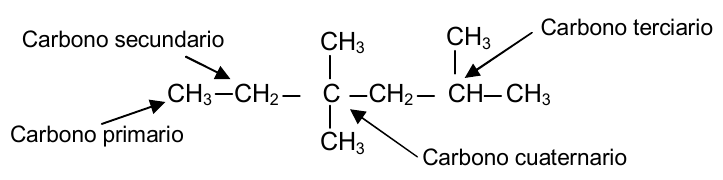
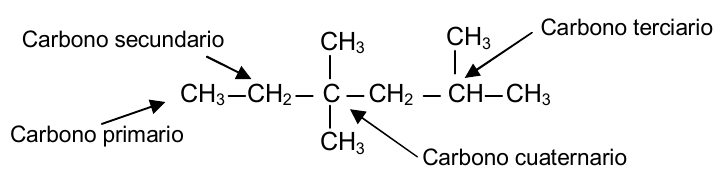
1

Changed region(s): [[0.213, 0.3056, 0.4564, 0.5833], [0.5781, 0.5278, 0.6086, 0.5556]]

diff --git a/docs/tema2-carbono.md b/docs/tema2-carbono.md
@@ -67,7 +67,7 @@ Los hidrocarburos aromáticos son los derivados del benceno ($\ce{C6H6}$), cuya 
 
 ![...](imagenes/tema02/aromaticos.png){ style="display: block; margin: 0 auto; width: 80%; height: auto;" }
 
-### **3.1 Hidrocarburos saturados lineales. Alcanos -ano** {: .caja-subtitulo}
+### **3.1 Hidrocarburos saturados lineales. Alcanos (-ano)** {: .caja-subtitulo}
 
 Los hidrocarburos saturados de cadena lineal tienen de fórmula general $\ce{C_nH_{2n+2}}$. Sólo contienen enlaces simples C-C. Pueden ser de cadena lineal o presentar ramificaciones laterales.
 
@@ -81,7 +81,7 @@ En una cadena carbonada podemos identificar:
   
 - **cuaternarios** cuando sus cuatro enlaces son uniones C-C.
 
-![...](imagenes/tema02/tipos_carbonos.png){ style="display: block; margin: 0 auto; width: 80%; height: auto;" }
+![...](imagenes/tema02/tipos_carbonos.png){ style="display: block; margin: 0 auto; width: 70%; height: auto;" }
 
 ### **Nomenclatura** {: .caja-subtitulo2}
 
@@ -126,44 +126,53 @@ Para **nombrar** **hidrocarburos saturados ramificados** se aplican los criterio
    
       - La más larga
       - La que tenga mayor número de sustituciones
-      - La que tenga los localizadores (suma) más bajos.
 
 2. **Numerar la cadena principal** de tal forma que los localizadores (suma) sean los más bajos posibles.
 
-3. **Nombrar los sustituyentes por orden alfabético**. A la hora de clasificar alfabéticamente no se consideran los prefijos numerales (di, tri...) de los sustituyentes simples.
+3. **Nombrar los sustituyentes por orden alfabético** con:
+    1. Un número llamado localizador que indica la posición en la cadena.
+   
+    2. Un prefijo en función del número de carbonos. Si hay más de uno, se añade un prefijo numérico: di-, tri-, tetra-... A la hora de clasificar alfabéticamente no se consideran los prefijos numerales (di, tri...) de los sustituyentes simples.
+   
+    3. Se finalizan en -**il**.
+   
+    4. Los números se separan entre sí con comas y de las letras con un guion. 
 
-4. **Nombrar la cadena principal**.
+4. **Nombrar la cadena principal** con el prefijo adecuado terminado en -**ano**.
 
-!!! note "Localizadores"
-Los **localizadores** son números que se asignan a los átomos de carbono de la cadena principal. Sirven para indicar la posición de las sustituciones (ramificaciones).
+> Los **localizadores** son números que se asignan a los átomos de carbono de la cadena principal. Sirven para indicar la posición de las sustituciones (ramificaciones).
 
 ![...](imagenes/tema02/ejemplo1.png){ style="display: block; margin: 0 auto; width: 100%; height: auto;" }
 
 ### **Hidrocarburos saturados cíclicos** (**cicloalcanos**) {: .caja-subtitulo}
-En este tipo de hidrocarburos los átomos de carbono se encuentran unidos formando anillos.
+En este tipo de hidrocarburos los átomos de carbono se encuentran unidos **formando anillos**.
 
 ### **Nomenclatura** {: .caja-subtitulo2}
 
-- Los cicloalcanos se nombran anteponiendo el nombre de los sustituyentes (en orden alfabético) al del hidrocarburo correspondiente con la palabra ciclo antepuesta.
+- Los **cicloalcanos** se nombran anteponiendo el nombre de los sustituyentes (en orden alfabético) al del hidrocarburo correspondiente con la palabra **ciclo** antepuesta.
 
 - La numeración del ciclo se hace de tal forma que los localizadores (suma) sean los más bajos posibles. Si hay duda decide el orden alfabético de los sustituyentes.
 
-### **3.2 Alquenos -eno** {: .caja-subtitulo}
+![...](imagenes/tema02/cicloalcano.png){ style="display: block; margin: 0 auto; width: 100%; height: auto;" }
 
-- **Doble enlace C=C**
-- Los dobles enlaces se localizan con números localizadores colocados antes del sufijo -eno.
+### **3.2 Alquenos (-eno)** {: .caja-subtitulo}
 
-| Fórmula | Nombre | Observaciones |
-|---|---|---|
-| $\ce{CH2=CH2}$ | Eteno (Etileno) | Alqueno se comienza con un número si es necesario para evitar ambigüedades. |
-| CH3-CH=CH2 | Propeno | Es el caso que no hace falta indicar el localizador del doble enlace porque no existe ninguna duda de su posición (entre el carbono 1 y 2). Si fuera entre los dos átomos de carbono sería el mismo compuesto, pero se comenzaría la numeración por el otro extremo y de nuevo quedaría entre 1 y 2. |
-| CH3-CH2-CH=CH2 | But-1-eno (1-Buteno) | La numeración se empieza por el extremo derecho, para así que el doble enlace con el localizador más bajo, el 1. |
-| CH3-CH=CH-CH3 | But-2-eno (2-Buteno) | En este caso es indiferente el extremo por el que se ataca la numeración, pues en ambos casos el doble enlace se sitúa entre los carbonos 2 y 3. Se nombra but-2-eno por ser el 2 el número más pequeño que se puede asignar a los carbonos que se encuentran el doble enlace. |
-| CH3-CH2-CH2-CH=CH2 \| CH3 | 4-Metilpent-1-eno (4-Metil-1-penteno) | Se numera de forma que el doble enlace queda con el localizador más bajo, ya que tiene prioridad sobre las ramificaciones. |
-| CH3-CH=CH-CH2-CH2-CH3 \| CH2 \| CH3 | 4,5-Dimetilhept-1-eno (4,5-Dimetil-1-hepteno) | Se numera por la izquierda para que el doble enlace quede con el localizador más bajo, ya que tiene prioridad sobre las ramificaciones. |
-| CH3-CH2-CH=CH-CH2-CH3 \| CH3 | 2-Metilhex-3-eno (2-Metil-3-hexeno) | En este caso el doble enlace se encuentra compitiendo con el metilo: localizador independientemente del extremo por el que se nombre. Se numera por el extremo que es el radical el que le asigne los localizadores más bajos. |
-| CH3-CH=CH-CH2-CH2-CH3 \| CH2 \| CH3 | Nona-1,4-dieno (1,4-Nonadieno) | Se numera por el extremo de la derecha y así que dan los localizadores más bajos para los dobles enlaces (1,4), mientras que por el otro extremo se obtendría (5,8). La terminación abre es -dieno, indicando que existen dos dobles enlaces. |
-| CH3-CH=CH-CH2-CH=CH2 \| CH3 \| CH3 | 2,4-Dimetilhexa-1,5-dieno (2,4-Dimetil-1,5-hexadieno) | Los dobles enlaces quedan con los mismos localizadores (1,5) independientemente del extremo por el que se comience, entonces se numera por la izquierda para que los radicales queden con los localizadores más bajos. |
+Los **alquenos** son hidrocarburos no saturados que contienen dobles enlaces carbono-carbono. - **Doble enlace C=C**. 
+
+Los dobles enlaces se localizan con números localizadores colocados antes del sufijo -eno.
+
+### **Nomenclatura** {: .caja-subtitulo2}
+
+- Los alquenos se nombran igual que los hidrocarburos saturados correspondientes cambiando la terminación -**ano** por -**eno**.
+
+- En caso de que sea necesario se especifica la posición del doble enlace con un número (localizador). El localizador se coloca inmediatamente antes de la terminación característica del compuesto (eno).
+
+- La numeración de la cadena se hace de forma que el localizador del doble enlace tenga el número más bajo posible.
+
+Existen algunos radicales insaturados que por su importancia conviene conocer:
+
+![...](imagenes/tema02/alqueno.png){ style="display: block; margin: 0 auto; width: 100%; height: auto;" }
+
 
 ### 3.3 Alquinos -ino
 
